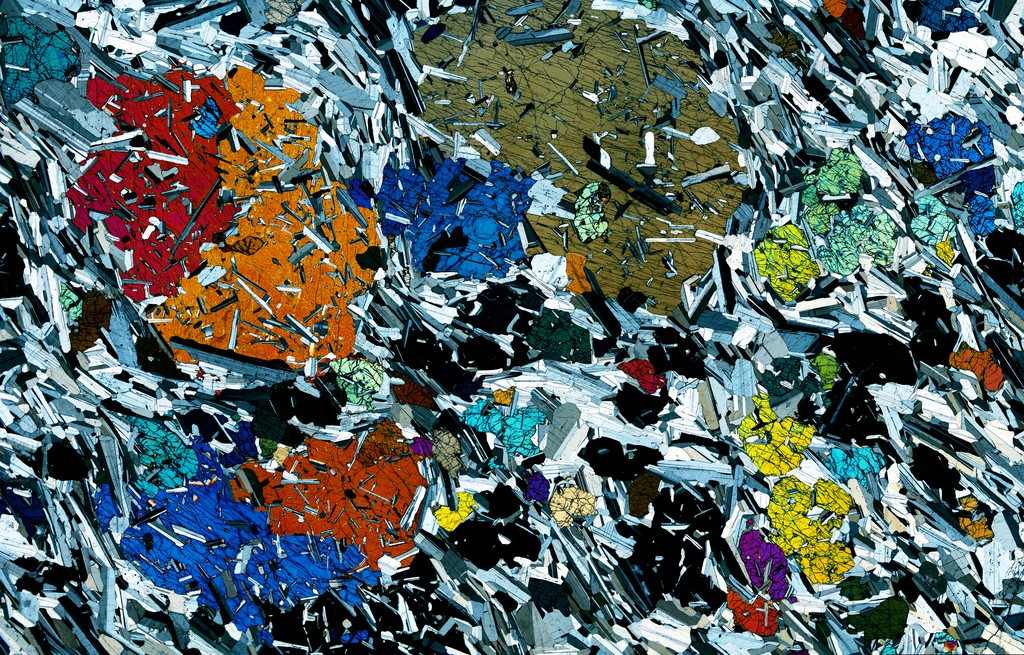
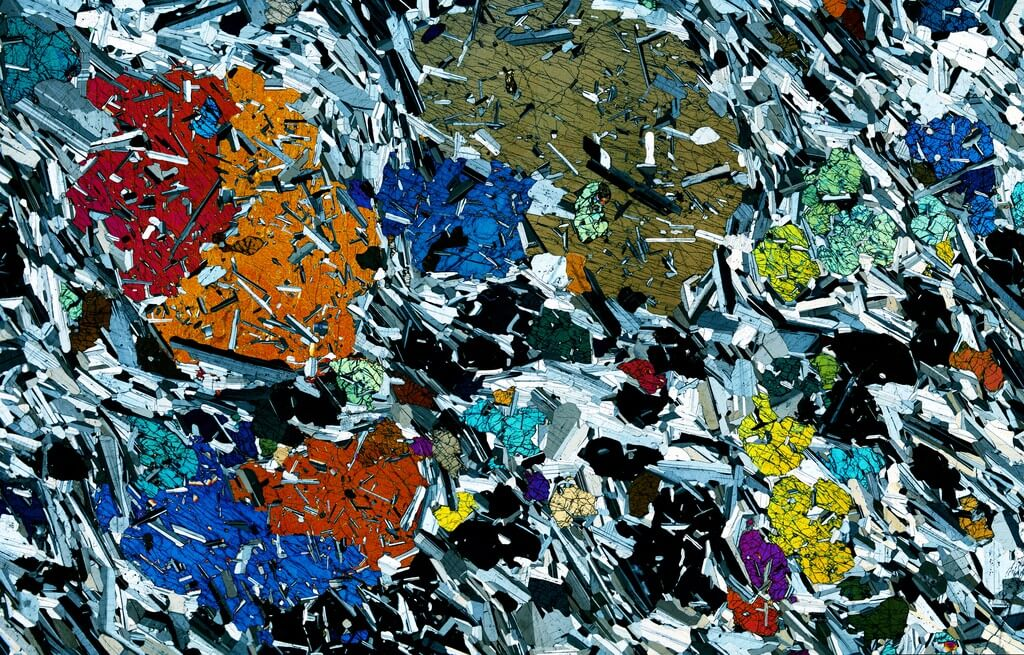
Optimizing images and image folder

diff --git a/index.html b/index.html
@@ -87,7 +87,7 @@
 
     <main>
       <section id="hero-story">
-        <img src="img\hasan-can-devsir-Yzsf-3X3jac-unsplash.jpg" id="hero-image" width="300px" />
+        <img src="img\hasan-can-devsir-Yzsf-3X3jac-unsplash.jpg" alt="crystal obelisks" id="hero-image" width="300px" />
         <div id="our-story">
         <h2 class="hero-heading">Monolith Lapidary - Our Story</h2>
         <p class="hero-text">
